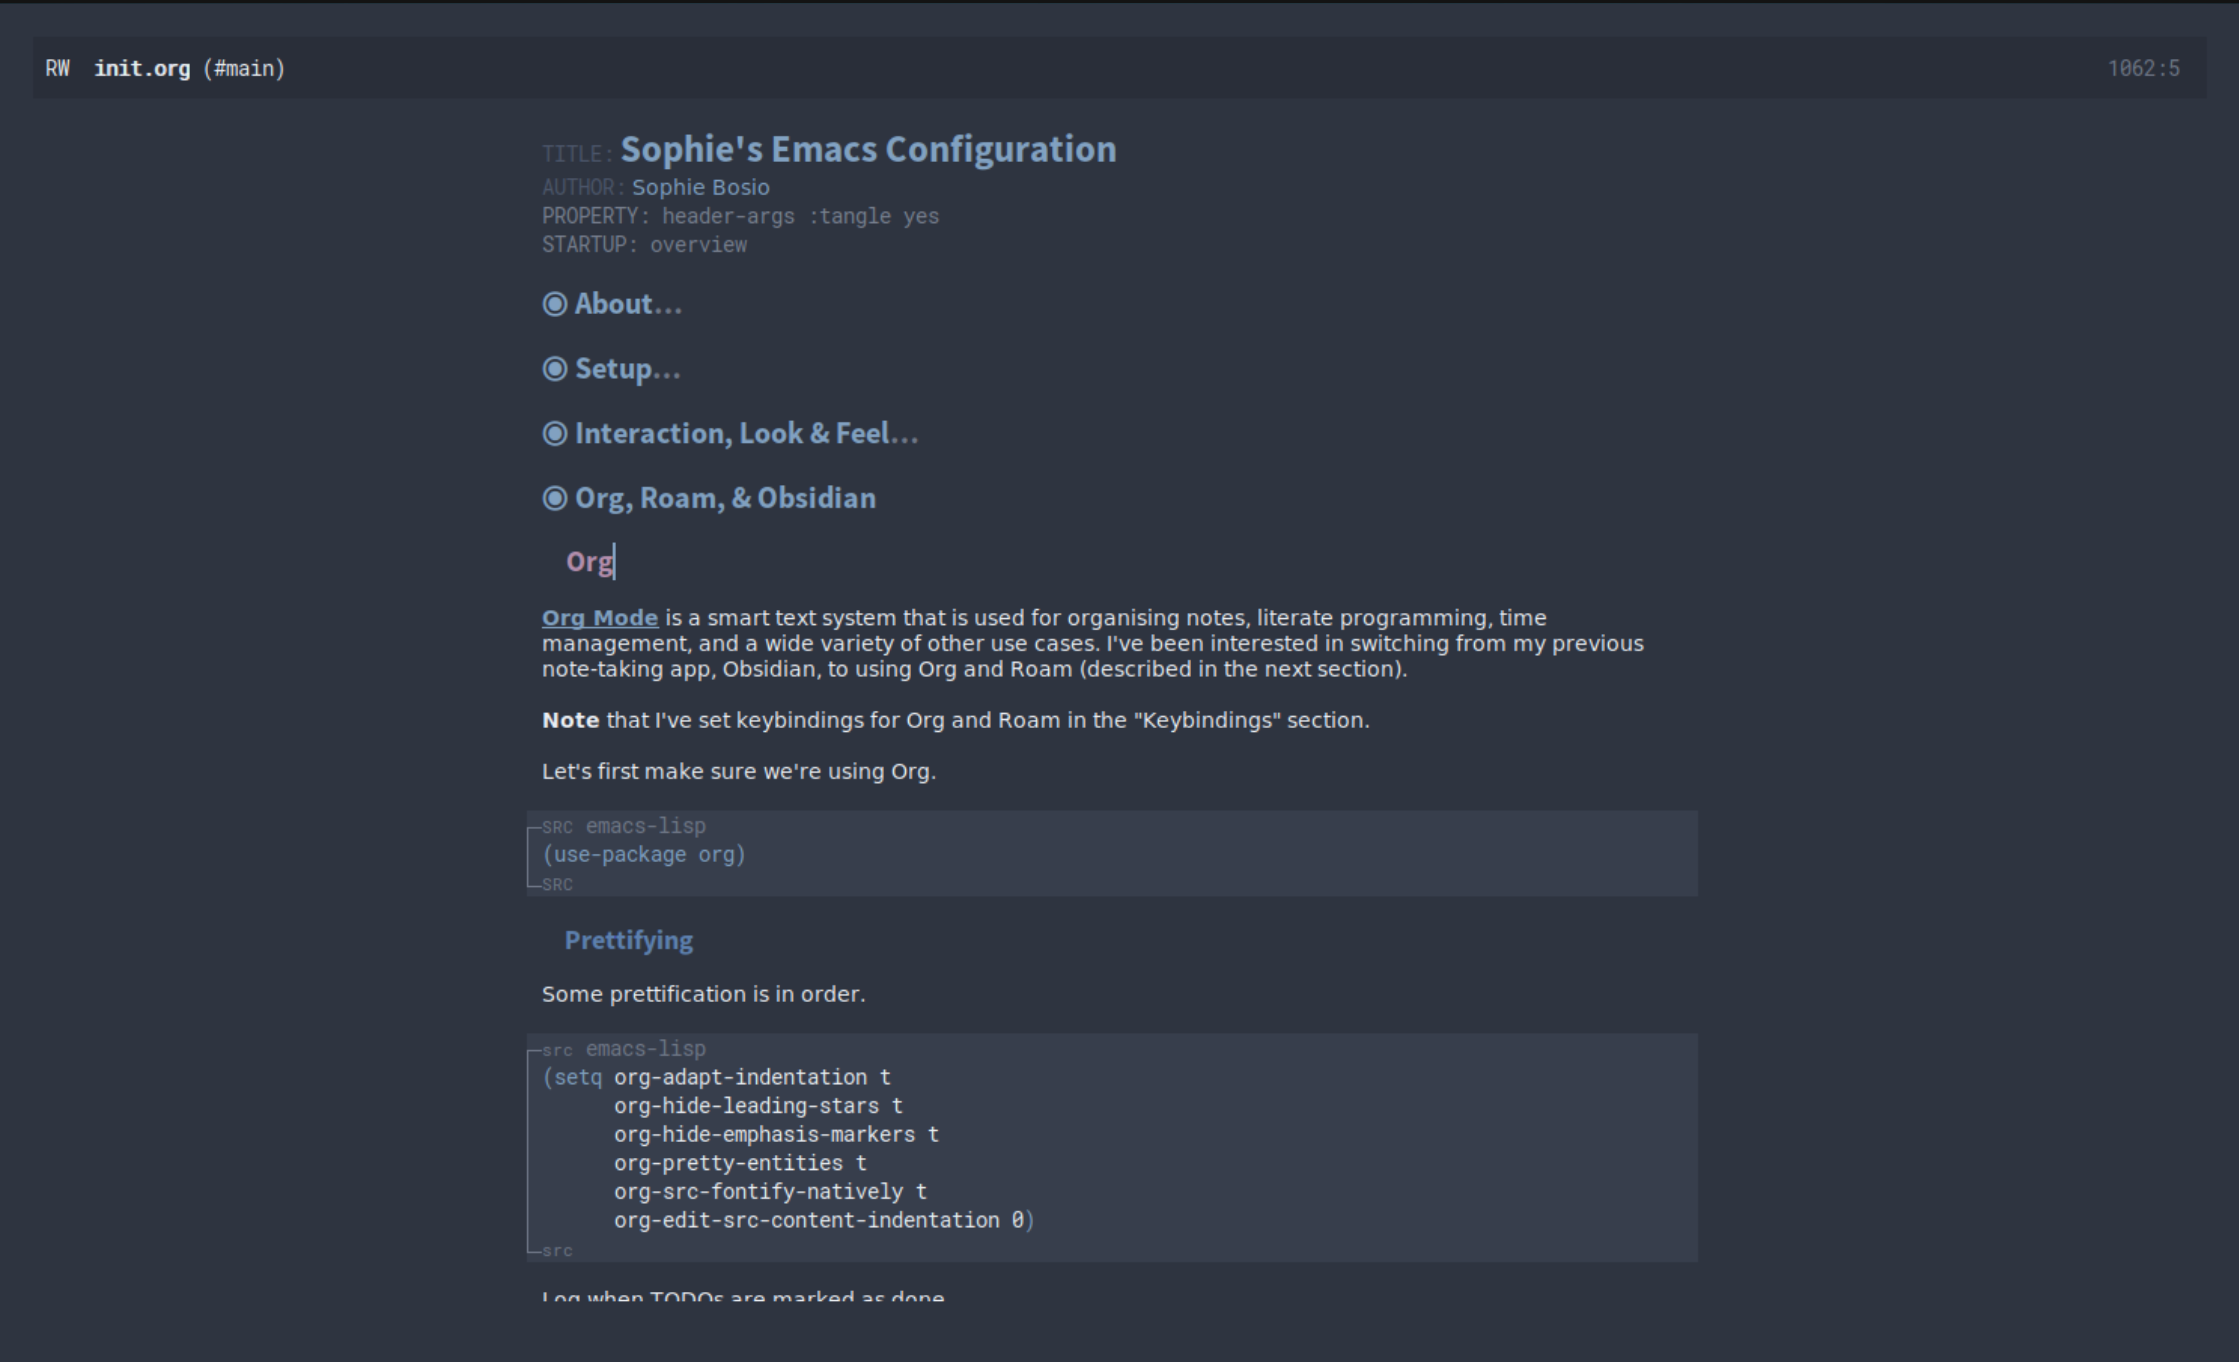
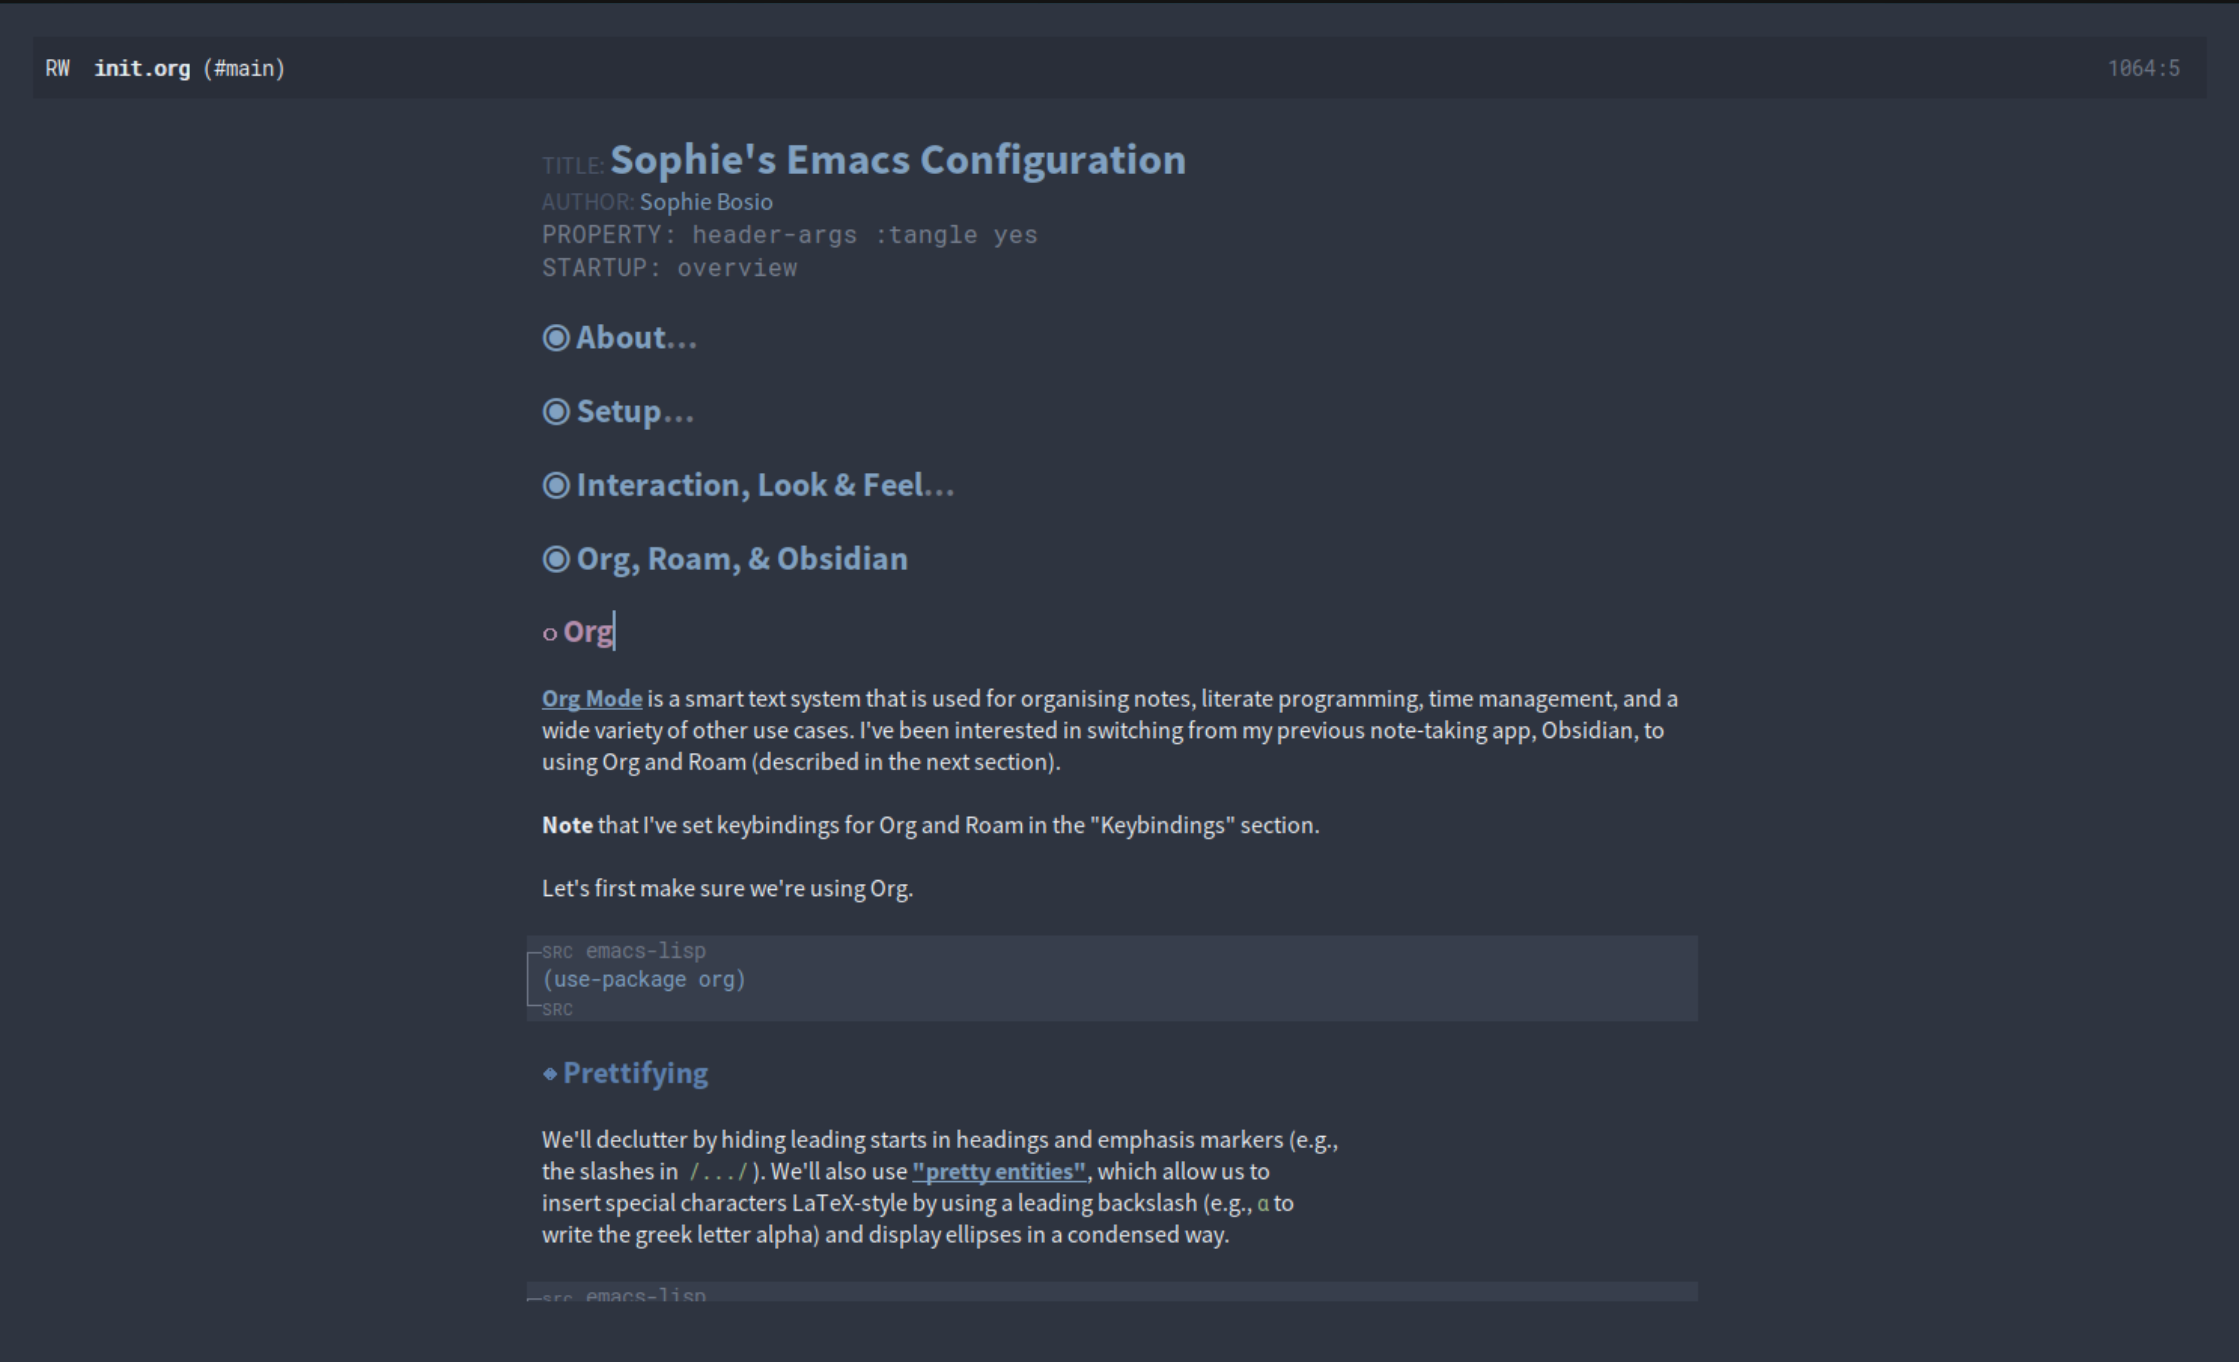
Better fonts in Beautify post

Changed region(s): [[0.2157, 0.4009, 0.7396, 0.9559], [0.2465, 0.0925, 0.5239, 0.37]]

diff --git a/content/posts/beautifying-emacs-org-mode.md b/content/posts/beautifying-emacs-org-mode.md
@@ -52,8 +52,8 @@ In the regular part of my Emacs config, I set these fonts.
   (set-face-attribute 'default nil :font "Roboto Mono" :height 108)
   (set-face-attribute 'fixed-pitch nil :family "Roboto Mono"))
 
-(when (member "Source Sans 3" (font-family-list))
-  (set-face-attribute 'variable-pitch nil :family "Source Sans Pro" :height 1.8))
+(when (member "Source Sans Pro" (font-family-list))
+  (set-face-attribute 'variable-pitch nil :family "Source Sans Pro" :height 1.18))
 ```
 
 Then, in the Org-specific part, I resize the Org headings and choose Source Sans
@@ -61,14 +61,14 @@ Pro to be the header font.
 
 ```emacs-lisp
 ;; Resize Org headings
-(dolist (face '((org-level-1 . 1.4)
-                (org-level-2 . 1.35)
-                (org-level-3 . 1.3)
-                (org-level-4 . 1.2)
-                (org-level-5 . 1.2)
-                (org-level-6 . 1.2)
-                (org-level-7 . 1.2)
-                (org-level-8 . 1.2)))
+(dolist (face '((org-level-1 . 1.35)
+                (org-level-2 . 1.3)
+                (org-level-3 . 1.2)
+                (org-level-4 . 1.1)
+                (org-level-5 . 1.1)
+                (org-level-6 . 1.1)
+                (org-level-7 . 1.1)
+                (org-level-8 . 1.1)))
   (set-face-attribute (car face) nil :font "Source Sans Pro" :weight 'bold :height (cdr face)))
 
 ;; Make the document title a bit bigger
@@ -81,21 +81,23 @@ variable- and fixed-pitch text, we need to make sure that the `org-indent` face
 inherits from `fixed-pitch`.
 
 ```emacs-lisp
-(org-indent ((t (:inherit (org-hide fixed-pitch)))))
+(require 'org-indent)
+(set-face-attribute 'org-indent nil :inherit '(org-hide fixed-pitch))
 ```
 
 And then, we want to make sure that some parts of the Org document
 always use fixed-pitch even when `variable-pitch-mode` is on.
 
 ```emacs-lisp
-(set-face-attribute 'org-block nil           :foreground nil :inherit 'fixed-pitch)
-(set-face-attribute 'org-table nil           :inherit 'fixed-pitch)
-(set-face-attribute 'org-formula nil         :inherit 'fixed-pitch)
-(set-face-attribute 'org-code nil            :inherit '(shadow fixed-pitch))
-(set-face-attribute 'org-verbatim nil        :inherit '(shadow fixed-pitch))
-(set-face-attribute 'org-special-keyword nil :inherit '(font-lock-comment-face fixed-pitch))
-(set-face-attribute 'org-meta-line nil       :inherit '(font-lock-comment-face fixed-pitch))
-(set-face-attribute 'org-checkbox nil        :inherit 'fixed-pitch)
+(set-face-attribute 'org-block nil            :foreground nil :inherit
+'fixed-pitch :height 0.85)
+(set-face-attribute 'org-code nil             :inherit '(shadow fixed-pitch) :height 0.85)
+(set-face-attribute 'org-indent nil           :inherit '(org-hide fixed-pitch) :height 0.85)
+(set-face-attribute 'org-verbatim nil         :inherit '(shadow fixed-pitch) :height 0.85)
+(set-face-attribute 'org-special-keyword nil  :inherit '(font-lock-comment-face
+fixed-pitch))
+(set-face-attribute 'org-meta-line nil        :inherit '(font-lock-comment-face fixed-pitch))
+(set-face-attribute 'org-checkbox nil         :inherit 'fixed-pitch)
 ```
 
 For this all to come together, we need to make sure that  `variable-pitch-mode` is always active in Org buffers.
@@ -155,6 +157,11 @@ great package for this purpose.
 ```emacs-lisp
 (add-hook 'org-mode-hook 'olivetti-mode)
 ```
+
+As you can see in the below screenshot, the Org document fills up the left side
+of the screen comfortably even when `olivetti-mode` is on.
+
+{{< figure src="/images/split-screen.png" link="/images/split-screen.png" >}}
 
 
 ## Prettier UI Elements {#prettier-ui-elements}
